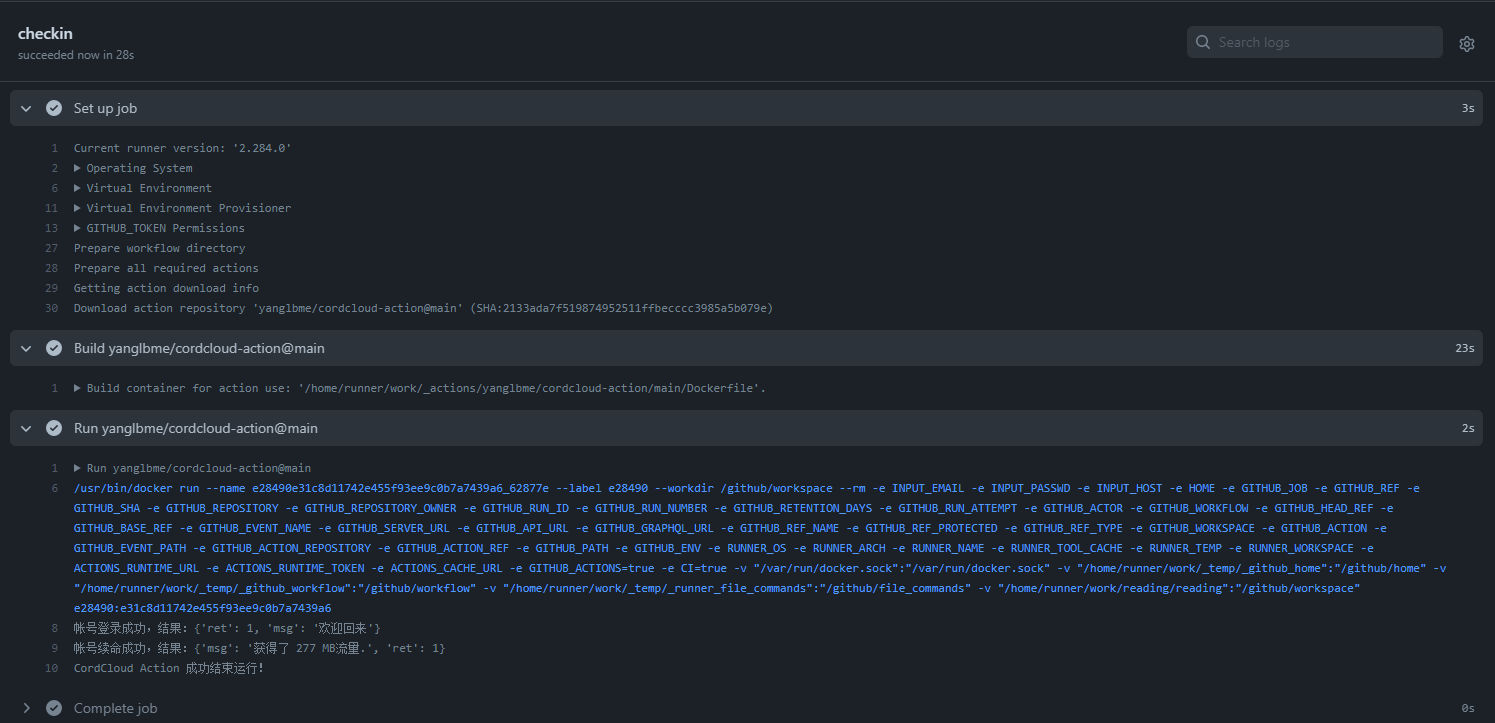
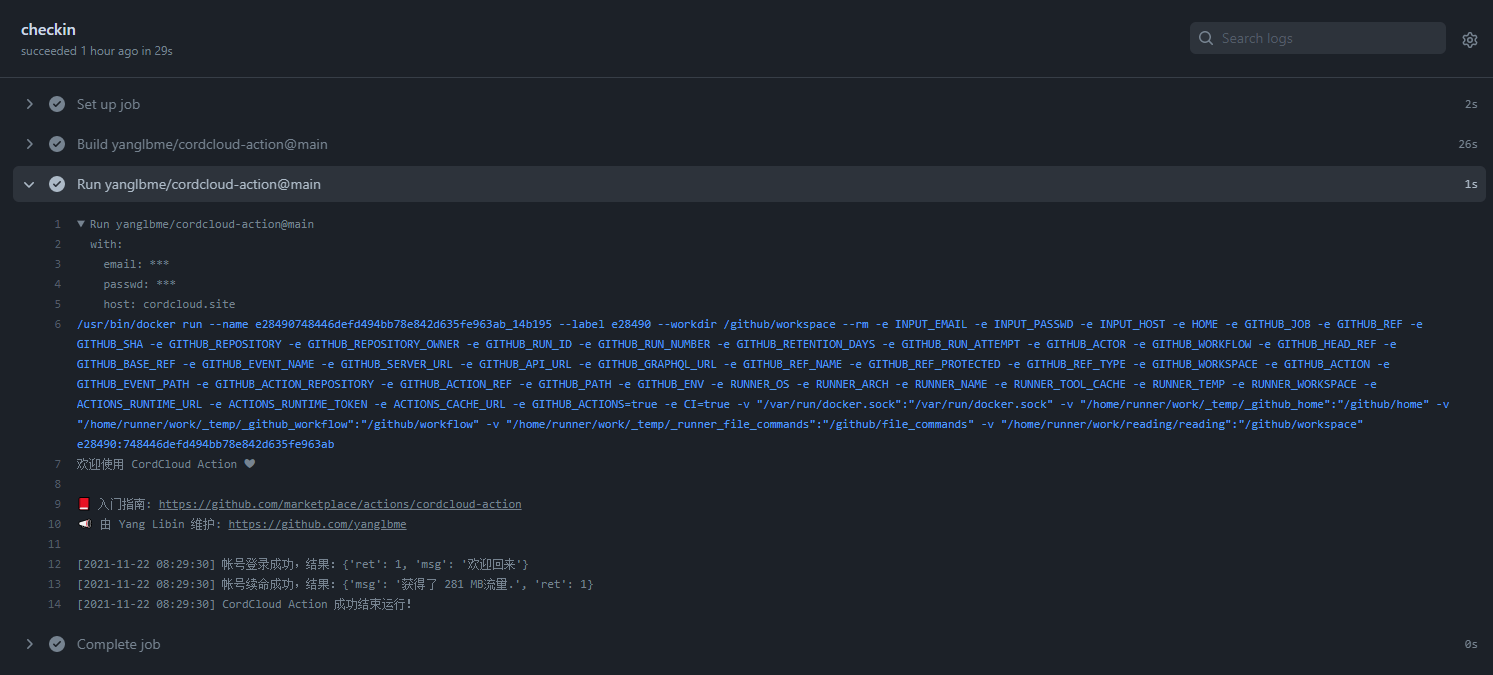
docs: update readme guideline

Changed region(s): [[0.0308, 0.1244, 0.9859, 0.9956], [0.0, 0.0311, 0.1232, 0.0933], [0.8011, 0.0311, 0.8319, 0.0622]]

diff --git a/README.md b/README.md
@@ -70,3 +70,20 @@ jobs:
 若 CordCloud Action 所需参数 `email`、`passwd` 等配置无误，CordCloud Action 将会根据触发条件（比如 `schedule`）自动运行，结果如下：
 
 ![](./images/result.png)
+
+```bash
+Run yanglbme/cordcloud-action@main
+  with:
+    email: ***
+    passwd: ***
+    host: cordcloud.site
+/usr/bin/docker run --name e28490748446defd494bb78e842d635fe963ab_14b195 --label e28490 --workdir /github/workspace --rm -e INPUT_EMAIL -e INPUT_PASSWD -e INPUT_HOST -e HOME -e GITHUB_JOB -e GITHUB_REF -e GITHUB_SHA -e GITHUB_REPOSITORY -e GITHUB_REPOSITORY_OWNER -e GITHUB_RUN_ID -e GITHUB_RUN_NUMBER -e GITHUB_RETENTION_DAYS -e GITHUB_RUN_ATTEMPT -e GITHUB_ACTOR -e GITHUB_WORKFLOW -e GITHUB_HEAD_REF -e GITHUB_BASE_REF -e GITHUB_EVENT_NAME -e GITHUB_SERVER_URL -e GITHUB_API_URL -e GITHUB_GRAPHQL_URL -e GITHUB_REF_NAME -e GITHUB_REF_PROTECTED -e GITHUB_REF_TYPE -e GITHUB_WORKSPACE -e GITHUB_ACTION -e GITHUB_EVENT_PATH -e GITHUB_ACTION_REPOSITORY -e GITHUB_ACTION_REF -e GITHUB_PATH -e GITHUB_ENV -e RUNNER_OS -e RUNNER_ARCH -e RUNNER_NAME -e RUNNER_TOOL_CACHE -e RUNNER_TEMP -e RUNNER_WORKSPACE -e ACTIONS_RUNTIME_URL -e ACTIONS_RUNTIME_TOKEN -e ACTIONS_CACHE_URL -e GITHUB_ACTIONS=true -e CI=true -v "/var/run/docker.sock":"/var/run/docker.sock" -v "/home/runner/work/_temp/_github_home":"/github/home" -v "/home/runner/work/_temp/_github_workflow":"/github/workflow" -v "/home/runner/work/_temp/_runner_file_commands":"/github/file_commands" -v "/home/runner/work/reading/reading":"/github/workspace" e28490:748446defd494bb78e842d635fe963ab
+欢迎使用 CordCloud Action ❤
+
+📕 入门指南: https://github.com/marketplace/actions/cordcloud-action
+📣 由 Yang Libin 维护: https://github.com/yanglbme
+
+[2021-11-22 08:29:30] 帐号登录成功，结果：{'ret': 1, 'msg': '欢迎回来'}
+[2021-11-22 08:29:30] 帐号续命成功，结果：{'msg': '获得了 281 MB流量.', 'ret': 1}
+[2021-11-22 08:29:30] CordCloud Action 成功结束运行！
+```
